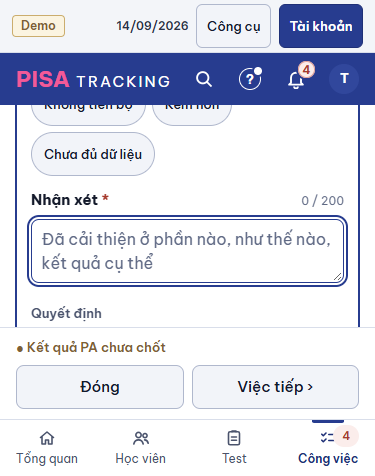
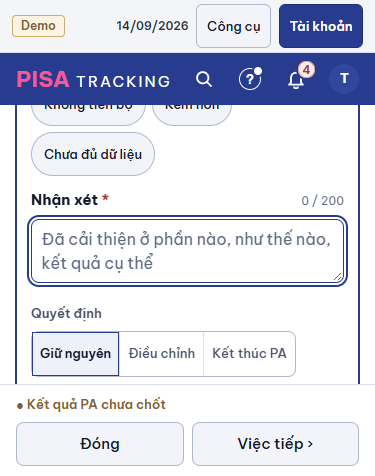
U03 (chủ SP 13/11 'Ẩn, không mockup'): bàn phím mở trên điện thoại → ẩn thanh tab dưới ở mọi trang
- useBanPhim chuyển sang ui/banPhim.ts, gắn một lần ở App (trước: chỉ khi có panel mở); bỏ bản trong KhungPanel
- banPhimChe (shared, thuần): chỉ < 768 + ô nhập đang focus + che > 80 px; 1440 không đổi
- ô đang gõ cuộn vào giữa phần còn thấy (scroll-margin-bottom = phần bị che) — trước nằm sau chân lưu
- phép kiểm prNenPanel; ảnh head-375-ban-phim.png; khop-khac.md (U03 = ĐÃ SỬA)

Changed region(s): [[0.0293, 0.6765, 0.968, 1.0], [0.4693, 0.9412, 0.528, 0.9706]]

diff --git a/web/src/ui/KhungPanel.tsx b/web/src/ui/KhungPanel.tsx
@@ -112,32 +112,6 @@ export function useXoaNhap(): () => () => void {
   return useCallback(() => n?.xoa() ?? (() => {}), [n]);
 }
 
-/**
- * T21 (375 + bàn phím): bàn phím ảo che phần dưới vùng nhìn — đo bằng `visualViewport`, đặt `--ban-phim` (px bị che) + `data-ban-phim` lên <html>:
- * panel phủ co lên trên bàn phím, chân lưu dính ngay trên bàn phím, thanh điều hướng dưới ẩn (`index.css`).
- */
-function useBanPhim(bat: boolean) {
-  useEffect(() => {
-    const vv = window.visualViewport;
-    if (!bat || !vv) return undefined;
-    const goc = document.documentElement;
-    const bo = () => { delete goc.dataset.banPhim; goc.style.removeProperty('--ban-phim'); };
-    const doi = () => {
-      const che = Math.round(window.innerHeight - vv.height - vv.offsetTop);
-      if (che > 80) {
-        const moi = goc.dataset.banPhim === undefined;
-        goc.dataset.banPhim = ''; goc.style.setProperty('--ban-phim', `${che}px`);
-        /* UI-CON-LAI k8: bàn phím vừa mở → ô đang gõ cuộn vào giữa phần màn còn thấy (không bị chân Lưu / bàn phím che). */
-        const o = document.activeElement as HTMLElement | null;
-        if (moi && o?.matches('input, textarea, select')) requestAnimationFrame(() => o.scrollIntoView({ block: 'center' }));
-      } else bo();   // < 80 px: thanh công cụ trình duyệt, không phải bàn phím
-    };
-    doi();
-    vv.addEventListener('resize', doi); vv.addEventListener('scroll', doi);
-    return () => { vv.removeEventListener('resize', doi); vv.removeEventListener('scroll', doi); bo(); };
-  }, [bat]);
-}
-
 /** CV-LOI (CV-05): panel đang hiện "✓ Đã lưu · Hoàn tác" còn bấm được — hàng đợi Công việc không tự sang việc kế (Hoàn tác không bị thay). */
 const choHoanTac = new Set<symbol>();
 export function useChoHoanTac(con: boolean) {
@@ -318,7 +292,6 @@ export function KhungPanel({ tieuDe, hocVien, lop, rong: rongRieng, tabs, vungTa
     khoRoiNhap.dat(id, { moTa: tieuDe, conTrong: (a, b, kieu) => daBo.current || !mat || (kieu !== 'POP' && a.pathname === b.pathname), hoi: hoiBo(t('Bỏ chữ, rời đi')) });
     return () => { panelDangSua.delete(id); khoRoiNhap.dat(id, null); };
   }, [id, daSua, mat, tieuDe]);
-  useBanPhim(!trongKhung);   // rà #530: một nơi đo — panel con đóng không gỡ `--ban-phim` khi panel ngoài còn mở
 
   /* M6 6b-1 (luật Quay lại): ‹ lùi một view KHÔNG hỏi khi chữ đã ở nháp (`useNhap` — mở lại view là còn); form chỉ giữ chữ trong state (`chan.daSua`)
      thì vẫn hỏi (cùng hộp), không mất chữ âm thầm — kể cả khi nơi gọi `tuHoi` (nơi gọi chỉ tự hỏi ở ✕ / Esc / nền). */
@@ -465,7 +438,7 @@ export function KhungPanel({ tieuDe, hocVien, lop, rong: rongRieng, tabs, vungTa
     );
   }
   return createPortal(
-    /* T21: `bottom` = phần bàn phím ảo che (`useBanPhim`) — panel co lên, chân lưu nằm ngay trên bàn phím. */
+    /* T21: `bottom` = phần bàn phím ảo che (`useBanPhim` — đo một nơi ở `App`, `ui/banPhim.ts`) — panel co lên, chân lưu nằm ngay trên bàn phím. */
     <div className={`fixed inset-0 !mt-0 ${z} flex justify-end`} style={{ bottom: 'var(--ban-phim, 0px)' }} role="dialog" aria-modal="true" aria-label={tieuDe}>
       <div className="absolute inset-0 bg-black/60" onClick={dong} />
       <div ref={khung} tabIndex={-1} className={`relative flex h-full w-full flex-col rounded-none border-l shadow-2xl -outline-offset-2 ${rong === 'toan' ? 'max-w-[1440px]' : rong === 'vua' ? 'max-w-[1180px]' : rong === 'rong' ? 'sm:w-[720px]' : rong === 'bang' ? 'sm:w-[1040px] sm:max-w-full' : 'sm:w-[480px]'}`}

diff --git a/server/src/tests/prNenPanel.tests.ts b/server/src/tests/prNenPanel.tests.ts
@@ -55,6 +55,15 @@ export async function runPrNenPanelTests(t: YThucTestKit) {
     assert(d.docNhap(k, 'v', 'o') === undefined, 'JSON hỏng phải bỏ qua');
   });
 
+  check('U03 (chủ SP 13/11 "Ẩn") · bàn phím ảo: chỉ điện thoại < 768 + ô nhập đang focus + che > 80 px mới tính — ẩn thanh tab dưới', () => {
+    const m = { cao: 812, vvCao: 476, vvTren: 0, rong: 375, dangGo: true };
+    assert(d.banPhimChe(m) === 336, 'điện thoại, đang gõ, bàn phím 336 px');
+    assert(d.banPhimChe({ ...m, dangGo: false }) === 0, 'không ô nào focus (vd phóng to bằng hai ngón) → không ẩn');
+    assert(d.banPhimChe({ ...m, rong: 1440 }) === 0 && d.banPhimChe({ ...m, rong: 768 }) === 0, '≥ 768 (1440) không đổi gì');
+    assert(d.banPhimChe({ ...m, vvCao: 740 }) === 0, 'thanh công cụ trình duyệt (≤ 80 px) không phải bàn phím');
+    assert(d.banPhimChe({ ...m, vvCao: 400, vvTren: 30 }) === 382, 'trừ phần cuộn của visualViewport');
+  });
+
   check('AUDIT-1454 (PTA) · nháp Kết quả PA khoá theo PA + kỳ: chữ dưới khoá cũ (theo PA) chuyển sang kỳ đang mở MỘT lần, kỳ sau không thấy', () => {
     const k = khoGia();
     const V = 'action:5';
@@ -98,7 +107,8 @@ export async function runPrNenPanelTests(t: YThucTestKit) {
       assert(re.test(docSach(f)), `${f}: ô nháp chưa khoá khi đang lưu`);
     }
     const kp = docSach('web/src/ui/KhungPanel.tsx');
-    assert(/useBanPhim\(!trongKhung\)/.test(kp) && /if \(!bat \|\| !vv\) return undefined;/.test(kp), 'useBanPhim phải chỉ chạy ở panel ngoài cùng');
+    /* U03 (chủ SP 13/11): một nơi đo cho mọi trang (App) — panel con / panel đóng không gỡ `--ban-phim` của nơi khác. */
+    assert(!/useBanPhim\(/.test(kp) && (docSach('web/src/App.tsx').match(/useBanPhim\(\)/g) ?? []).length === 1, 'useBanPhim phải đo đúng một nơi (App)');
     assert(/max-sm:-mx-4 max-sm:rounded-none max-sm:border-x-0/.test(kp), 'panel tại chỗ ở 375 chưa toàn màn');
   });
 
@@ -142,7 +152,9 @@ export async function runPrNenPanelTests(t: YThucTestKit) {
 
   check('NEN-PANEL T21 · 375 + bàn phím: visualViewport → --ban-phim; panel phủ co lên; chân dính trên bàn phím; thanh dưới ẩn', () => {
     const kp = docSach('web/src/ui/KhungPanel.tsx');
-    assert(/window\.visualViewport/.test(kp) && /setProperty\('--ban-phim'/.test(kp) && /bottom: 'var\(--ban-phim, 0px\)'/.test(kp), 'panel phủ chưa co theo bàn phím');
+    const bp = docSach('web/src/ui/banPhim.ts');   // U03: đo một nơi (App) cho mọi trang, không chỉ khi panel mở
+    assert(/window\.visualViewport/.test(bp) && /setProperty\('--ban-phim'/.test(bp) && /bottom: 'var\(--ban-phim, 0px\)'/.test(kp), 'panel phủ chưa co theo bàn phím');
+    assert(/^\s*useBanPhim\(\);/m.test(docSach('web/src/App.tsx')) && !/useBanPhim\(/.test(kp), 'bàn phím phải đo một nơi ở App (mọi trang), không trong KhungPanel');
     const css = docSach('web/src/index.css');
     assert(/html\[data-ban-phim\] \.chan-dinh-375 \{ bottom: calc\(var\(--ban-phim\) - 80px\); \}/.test(css), 'chân tại chỗ chưa dính trên bàn phím');
     assert(/html\[data-ban-phim\] \[data-thanh-duoi\] \{ display: none; \}/.test(css) && /<nav data-thanh-duoi/.test(docSach('web/src/App.tsx')), 'thanh dưới chưa ẩn khi bàn phím mở');

diff --git a/web/src/ui/banPhim.ts b/web/src/ui/banPhim.ts
@@ -1,0 +1,40 @@
+import { useEffect } from 'react';
+import { banPhimChe } from '@shared/domain/index.ts';
+
+const O_GO = 'input:not([type="checkbox"]):not([type="radio"]):not([type="range"]):not([type="button"]), textarea, select, [contenteditable="true"]';
+
+/**
+ * T21 · U03 (chủ SP 13/11 "Ẩn, không mockup"): bàn phím ảo che phần dưới vùng nhìn — đo bằng `visualViewport` MỘT nơi cho mọi trang (gắn ở `App`),
+ * đặt `--ban-phim` (px bị che) + `data-ban-phim` lên <html>: thanh tab dưới ẩn (`index.css`), panel phủ / hộp co lên, chân lưu dính ngay trên bàn phím.
+ * Chỉ điện thoại (< 768) + ô nhập đang focus (`banPhimChe`); 1440 không đổi gì.
+ */
+export function useBanPhim() {
+  useEffect(() => {
+    const vv = window.visualViewport;
+    if (!vv) return undefined;
+    const goc = document.documentElement;
+    const bo = () => { delete goc.dataset.banPhim; goc.style.removeProperty('--ban-phim'); };
+    const doi = () => {
+      const o = document.activeElement as HTMLElement | null;
+      const che = banPhimChe({ cao: window.innerHeight, vvCao: vv.height, vvTren: vv.offsetTop, rong: window.innerWidth, dangGo: !!o?.matches(O_GO) });
+      if (!che) { bo(); return; }
+      const moi = goc.dataset.banPhim === undefined;
+      goc.dataset.banPhim = ''; goc.style.setProperty('--ban-phim', `${che}px`);
+      /* UI-CON-LAI k8: bàn phím vừa mở → ô đang gõ cuộn vào giữa phần màn còn thấy (không bị chân Lưu / bàn phím che). Khung cuộn có thể là cả cửa sổ
+         (cao như khi chưa có bàn phím) → `scroll-margin-bottom` = phần bị che, để "giữa" là giữa phần còn thấy. */
+      if (moi && o) {
+        requestAnimationFrame(() => { o.style.scrollMarginBottom = `${che}px`; o.scrollIntoView({ block: 'center' }); o.style.scrollMarginBottom = ''; });
+      }
+    };
+    /* Rời ô: đợi focus sang ô kế (focusout chạy trước focusin) rồi mới đo — chuyển ô không làm thanh dưới nháy. */
+    const sau = () => requestAnimationFrame(doi);
+    doi();
+    vv.addEventListener('resize', doi); vv.addEventListener('scroll', doi);
+    document.addEventListener('focusin', doi); document.addEventListener('focusout', sau);
+    return () => {
+      vv.removeEventListener('resize', doi); vv.removeEventListener('scroll', doi);
+      document.removeEventListener('focusin', doi); document.removeEventListener('focusout', sau);
+      bo();
+    };
+  }, []);
+}

diff --git a/web/src/App.tsx b/web/src/App.tsx
@@ -7,6 +7,7 @@ import { henTaiLaiKhiCu, onHetPhien, onLoiTaiLai, thuLaiNen, useApi } from './li
 import { onInvalidate, xaGop } from './lib/api.ts';
 import { DemoBar } from './modules/platform/DemoBar.tsx';
 import { ChanRoiNhapGoc } from './ui/chanRoiNhap.tsx';
+import { useBanPhim } from './ui/banPhim.ts';
 import { LA_BAN_CHINH } from './lib/banChinh.ts';
 import { useGhiNguon, useTieuDeTab } from './lib/quayLai.ts';
 import { Header } from './modules/platform/Header.tsx';
@@ -215,6 +216,7 @@ export default function App() {
   useEffect(() => { henViec.doiTrang(); }, [location.pathname, henViec]);
   useGhiNguon();   // PR-OV5b: nguồn của nút "‹ Quay lại" ở mọi hồ sơ
   useTieuDeTab(!!session?.authenticated);   // OV-11i (P1-3): tiêu đề tab theo màn
+  useBanPhim();   // T21 · U03 (chủ SP 13/11): điện thoại + bàn phím mở → ẩn thanh tab dưới, panel / chân lưu lên trên bàn phím — mọi trang
   /* HOTFIX-3: đã có dữ liệu mà tải lại nền lỗi → giữ bảng, báo nhỏ (một toast cho mọi khối). */
   useEffect(() => onLoiTaiLai(() => toast.push('error', t('Chưa tải lại được'), {
     key: 'tai-lai-loi', ms: 10_000, hanhDong: { nhan: t('Thử lại'), onBam: thuLaiNen },

diff --git a/shared/domain/khoPanel.ts b/shared/domain/khoPanel.ts
@@ -53,6 +53,15 @@ export function docNhap<T>(kho: KhoNhap | null, viec: string, o: string): T | un
 }
 
 /**
+ * U03 (chủ SP 13/11 "Ẩn, không mockup") · T21: phần bàn phím ảo che (px) — 0 = coi như không mở. Chỉ điện thoại (< 768), có ô nhập đang focus và
+ * `visualViewport` thấp hơn cửa sổ > 80 px (thanh công cụ trình duyệt / phóng to trên máy tính không tính).
+ */
+export function banPhimChe(o: { cao: number; vvCao: number; vvTren: number; rong: number; dangGo: boolean }): number {
+  const che = Math.round(o.cao - o.vvCao - o.vvTren);
+  return o.rong < 768 && o.dangGo && che > 80 ? che : 0;
+}
+
+/**
  * AUDIT-1454 (PTA 11/11): ô đổi khoá (vd Kết quả PA: theo PA → theo PA + kỳ). Đọc khoá mới; chưa có thì lấy chữ dưới khoá `cu` MỘT lần — ghi sang
  * khoá mới rồi xoá khoá cũ (lần sau, kỳ sau không còn thấy).
  */

diff --git a/docs/anh/nhap-kq-pa/khop-khac.md b/docs/anh/nhap-kq-pa/khop-khac.md
@@ -1,0 +1,29 @@
+# AUDIT-1454 (#1458) — form Kết quả PA: trạng thái + ảnh
+
+Không đổi bố cục (không mockup mới). Ảnh HEAD trong thư mục này: 1440 tối · 375 sáng, dữ liệu demo 14/09, GV Phạm Thu Trang.
+
+| ID | Trạng thái | Ảnh / bằng chứng |
+|---|---|---|
+| N01 nháp ghi đè giữa hai phiên | ĐÃ SỬA | `head-xung-dot-*` · phép kiểm `prNhapKq` (đỏ trên 730f931) |
+| N02 phản hồi nháp xoá chữ mới | ĐÃ SỬA | bấm thử PUT trễ 3 s (mô tả PR) |
+| N03 nháp / chốt chồng | ĐÃ SỬA | `head-da-chot-o-tab-khac-*` · `prNhapKq` |
+| daSua (PTA rà) | ĐÃ SỬA | bấm thử: Đóng hỏi "Bỏ chữ đang gõ?" |
+| U01 một bộ chữ | ĐÃ SỬA | `sau-form-*` (thay ảnh cũ "nháp giữ trên máy"), `head-nhap-truoc-chot-*`, `head-da-luu-*` |
+| U04 Sửa / việc tiếp | ĐÃ SỬA | `head-sua-*` · `prNhapKq` |
+| Lỗi mạng | ĐÃ SỬA (chữ) | `head-loi-*` — chân không còn ".." |
+| U03 375 + bàn phím | **ĐÃ SỬA** (chủ SP 13/11 "Ẩn, không mockup") | `head-375-ban-phim.png` (375 × 476 = phần còn thấy khi bàn phím 336 px) · `head-375-mo-viec.png` |
+
+## U03 — chi tiết
+- Điện thoại (< 768) + ô nhập đang focus + `visualViewport` thấp hơn cửa sổ > 80 px → ẩn thanh tab dưới (Tổng quan · Học viên · Test · Công việc); đóng bàn phím → hiện lại. Đo **một nơi ở `App`** cho mọi trang (trước chỉ khi có panel mở). 1440 không đổi.
+- Chân lưu panel (Đóng / Việc tiếp / Lưu) nằm trên bàn phím: bấm thử Đóng y 422–466 < mép bàn phím 476.
+- Ô đang gõ cuộn vào giữa phần còn thấy (trước: giữa cửa sổ 812 → nằm sau chân lưu): ô Nhận xét y 219–283.
+- Bấm thử headless (giả `visualViewport`), chưa thử điện thoại thật. Trang không panel (`/hoc-vien`, ô tìm): thanh dưới ẩn / hiện đúng.
+
+## Thao tác TRƯỚC → SAU
+| Thao tác | Trước | Sau |
+|---|---|---|
+| Lưu nháp · Lưu kết quả · Lưu · việc tiếp · Sửa | có | có, cùng vị trí; nút này tắt khi nút kia đang gửi |
+| Thử lại khi lỗi | có | có; không khi kỳ đã chốt ở phiên khác (câu nói tải lại / Sửa) |
+| Xung đột nháp | ghi đè im | Dùng bản mới · Lưu bản của tôi (chỉ khi xung đột thật) |
+| Thanh tab dưới khi gõ trên điện thoại | ẩn chỉ khi có panel mở | ẩn ở mọi trang |
+| Hoàn tác | không (chủ SP 13/11) | không |
